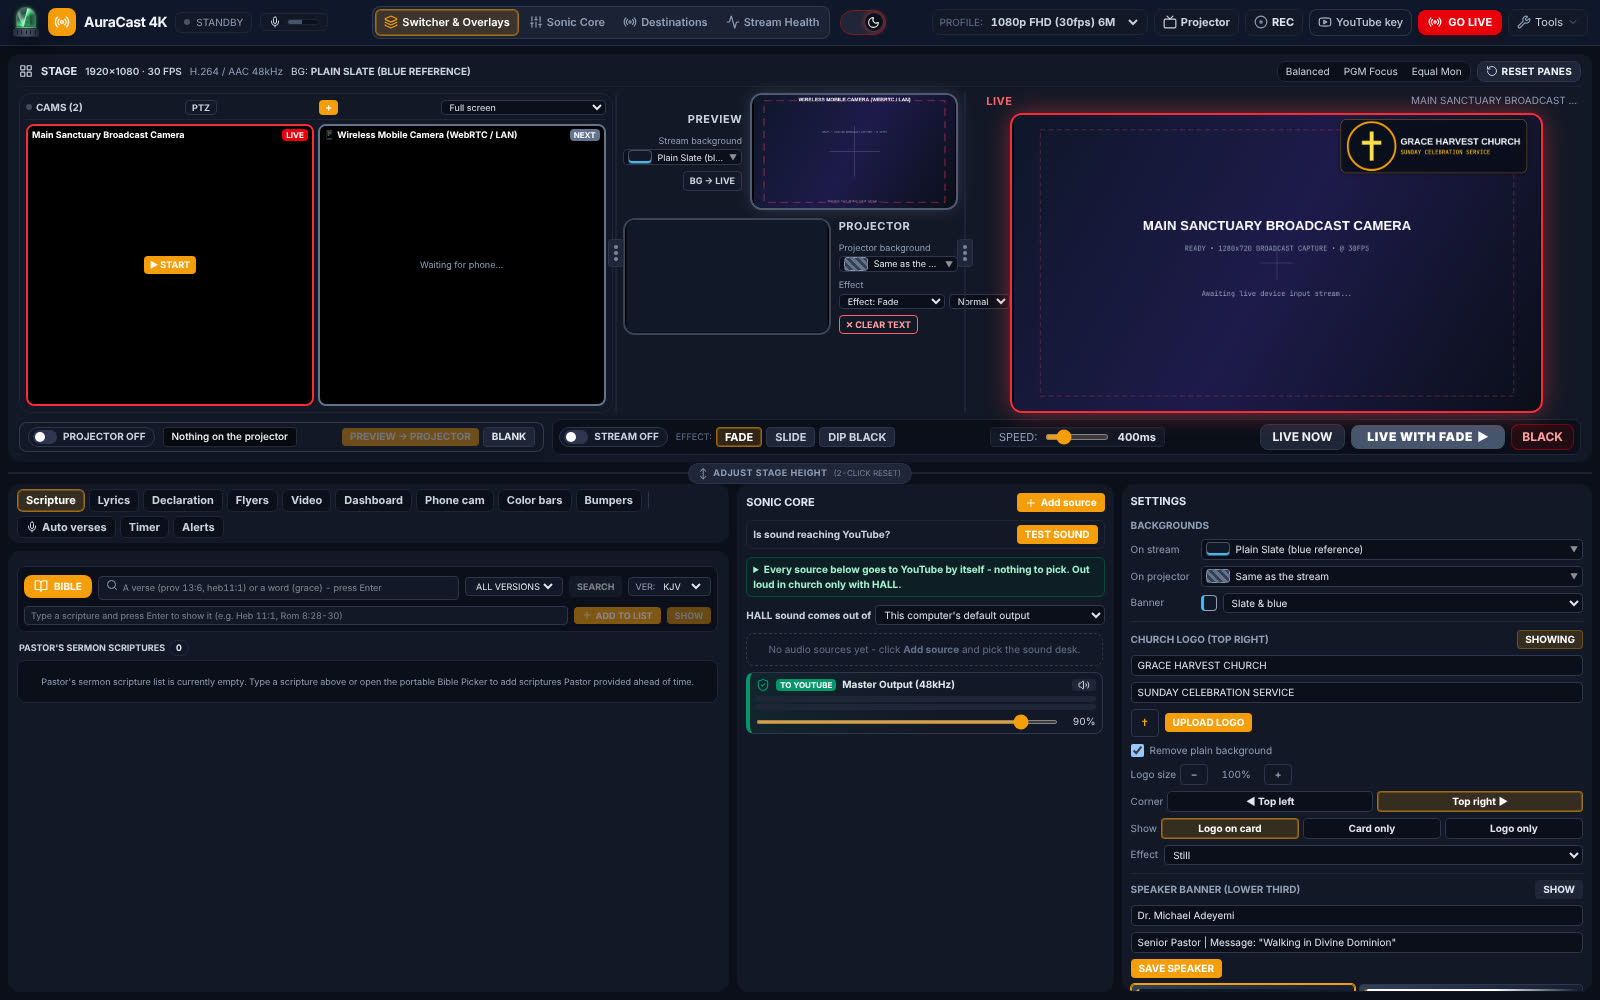
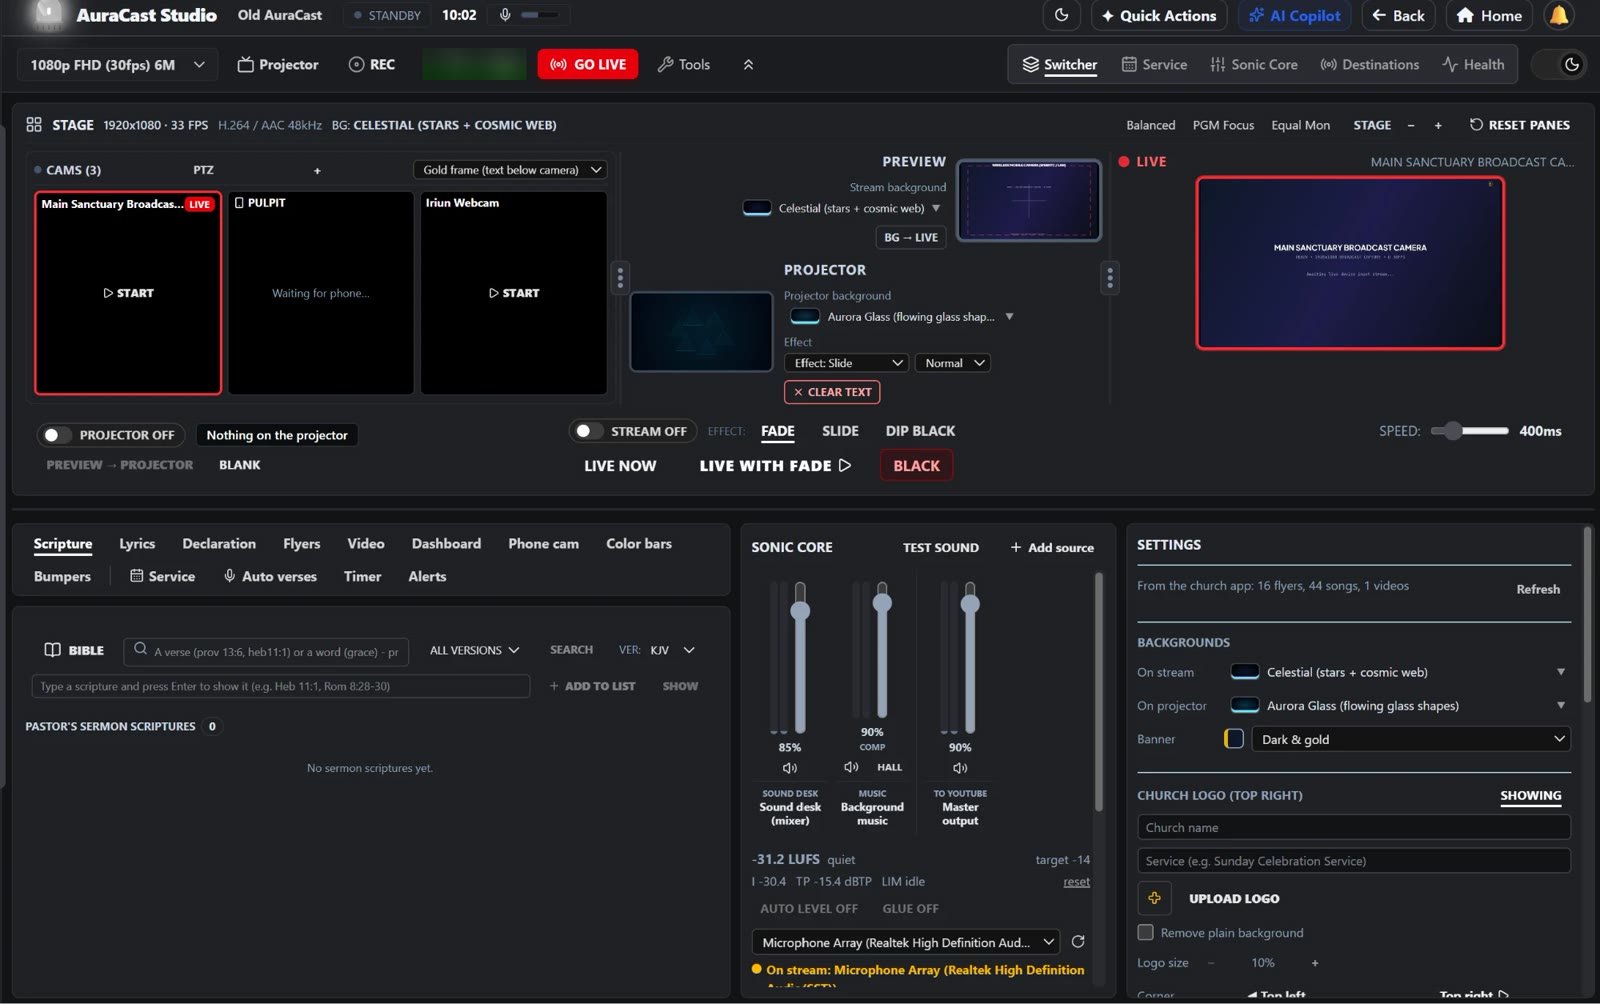
AuraCast: the current studio screenshot (stream-key hint blurred)
Claude-Session: https://claude.ai/code/session_01A3M3e9MEpdZDe6fhB4NzDT

diff --git a/index.html b/index.html
@@ -361,7 +361,7 @@ footer { padding-block: 32px 48px; color: var(--muted); font-size: var(--step--1
       <div class="media">
       <div class="screen">
         <span class="tally"><span class="dot" aria-hidden="true"></span> PROGRAM</span>
-        <img src="assets/auracast-studio.jpg" alt="AuraCast Studio: cameras, preview, projector and the live program output, with scripture, lyrics and sound panels below" width="1600" height="1000" loading="lazy">
+        <img src="assets/auracast-studio.jpg" alt="AuraCast Studio: camera switcher with preview, projector and live program output, the Sonic Core mixer with loudness metering, and scripture and background settings" width="1600" height="1004" loading="lazy">
       </div>
       </div>
       <div class="notes">
